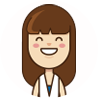
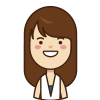
add

Changed region(s): [[0.21, 0.03, 0.78, 1.0], [0.42, 0.18, 0.54, 0.24]]

diff --git a/other/uedintro/index.html b/other/uedintro/index.html
@@ -90,7 +90,7 @@
               <div class="back">
                 <div class="titself">
                     <div class="icon">
-                        <!-- <img src="./images/t02.png">  -->
+                        <img src="./images/t13.png">
                     </div>
                   <p class="titName">陳姿伃</p>
                   <p class="left_text">UI/UX設計師</p>
@@ -254,7 +254,23 @@
                 </div>
               </div>
             </a>
-           
+            <a class="card" href="#!">
+              <div class="front" style="background-image: url(./images/15.jpg);">
+                <p>Eliot Zhang</p>
+              </div>
+              <div class="back">
+                <div class="titself">
+                    <div class="icon">
+                        <img src="./images/t14.png"> 
+                    </div>
+                  <p class="titName">張仕錩</p>
+                  <p class="left_text">UX設計師</p>
+                  <p class="left_text detail">主要：跨平台UI/UX設計</p>
+                  <p class="left_text detail">分機：6134</p>
+                 
+                </div>
+              </div>
+          </a>
             <a class="card" href="#!">
                 <div class="front" style="background-image: url(./images/11.jpg);">
                   <p>Mitty Huang</p>
